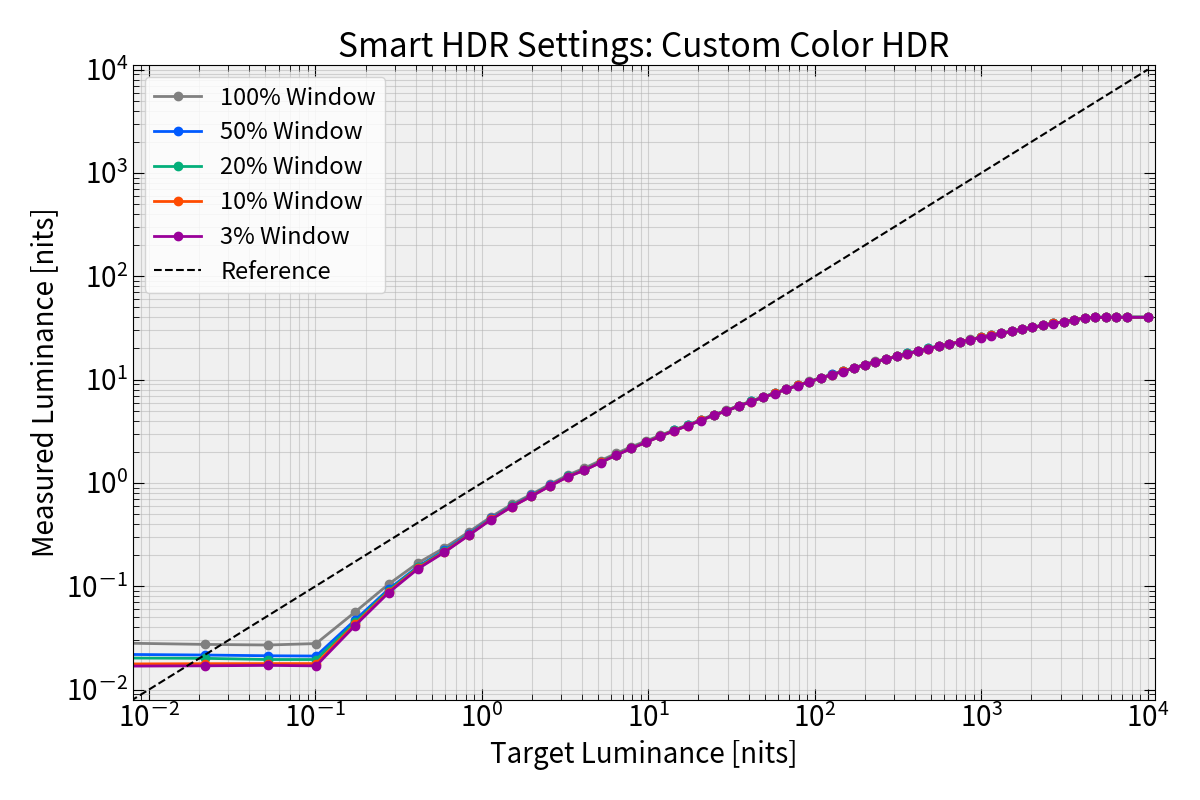
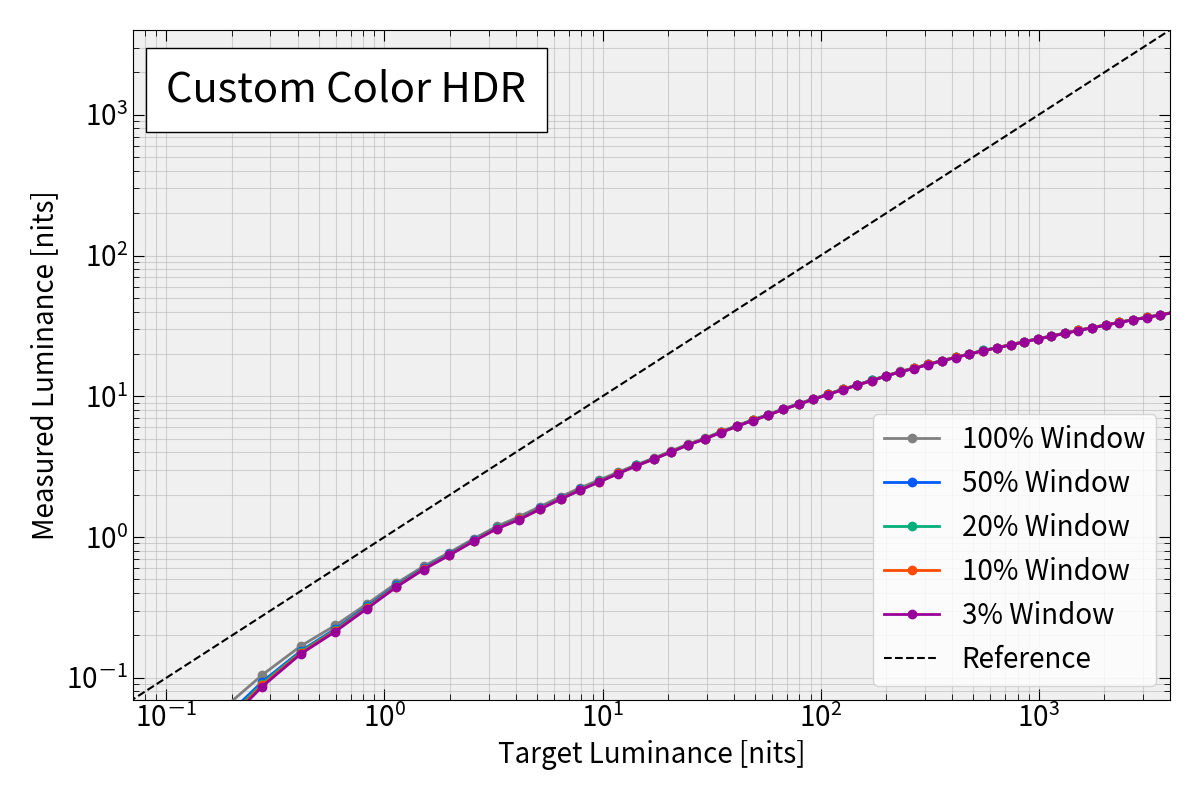
#232 update preset measurement result

Changed region(s): [[0.0308, 0.0312, 0.9867, 0.9688]]

diff --git a/2024/03_Measure_Moitor_Spec_with_Resolve/plot_measure_result.py b/2024/03_Measure_Moitor_Spec_with_Resolve/plot_measure_result.py
@@ -78,7 +78,8 @@ def plot_each_hdr_mode_result(condition: str):
         fontsize=20,
         figsize=(12, 8),
         bg_color=(0.96, 0.96, 0.96),
-        graph_title=f"Smart HDR Settings: {condition_str_space}",
+        # graph_title=f"Smart HDR Settings: {condition_str_space}",
+        graph_title=None,
         graph_title_size=None,
         xlabel="Target Luminance [nits]",
         ylabel="Measured Luminance [nits]",
@@ -102,12 +103,42 @@ def plot_each_hdr_mode_result(condition: str):
             ref_lumnance, luminance, '-o', color=color_list[idx], label=label)
     ax1.plot(ref_lumnance, ref_lumnance, '--k', lw=1.5, label="Reference")
     pu.log_scale_settings(ax1=ax1, grid_alpha=0.5, bg_color="#F0F0F0")
-    ax1.set_xlim(0.008, 11000)
-    ax1.set_ylim(0.008, 11000)
+    ax1.set_xlim(0.07, 4000)
+    ax1.set_ylim(0.07, 4000)
+
+    # add info text
+    text_pos_x = 0.1
+    text_pos_y = 1500
+    bbox_ops = dict(
+        facecolor='white', edgecolor='black', boxstyle='square,pad=0.5')
+    ax1.text(
+        text_pos_x, text_pos_y, condition.replace("_", " "),
+        fontsize=30, va='center', ha='left', bbox=bbox_ops)
 
     print(fname)
     pu.show_and_save(
-        fig=fig, legend_loc='upper left', save_fname=fname, show=True)
+        fig=fig, legend_loc='lower right', save_fname=fname, show=False,
+        fontsize=20)
+    
+
+def concat_each_hdr_mode_result():
+    condition_list = [
+        "Desktop", "Movie_HDR", "Game_HDR", "Custom_Color_HDR",
+        "DisplayHDR_True_Black", "HDR_Peak_1000"]
+    v_buf = []
+    for v_idx in range(2):
+        h_buf = []
+        for h_idx in range(3):
+            idx = v_idx * 3 + h_idx
+            condition = condition_list[idx]
+            fname = f"./img/increment_patch_{condition}.png"
+            img = tpg.img_read_as_float(fname)
+            h_buf.append(img)
+        v_buf.append(np.hstack(h_buf))
+    out_img = np.vstack(v_buf)
+
+    tpg.img_wirte_float_as_16bit_int(
+        "./img/increment_patch_all.png", out_img)
     
 
 def scatter_plot_for_single_patch(
@@ -530,13 +561,16 @@ def plot_abs_diff_colorchecker_core(cc_idx, data, ref_xy, patch_color):
 
 if __name__ == '__main__':
     os.chdir(os.path.dirname(os.path.abspath(__file__)))
-    plot_peak_60s_data()
+    # plot_peak_60s_data()
 
-    # condition_list = [
-    #     "Desktop", "Movie_HDR", "Game_HDR", "Custom_Color_HDR",
-    #     "DisplayHDR_True_Black", "HDR_Peak_1000"]
-    # for condition in condition_list:
-    #     plot_each_hdr_mode_result(condition=condition)
+    condition_list = [
+        "Desktop", "Movie_HDR", "Game_HDR", "Custom_Color_HDR",
+        "DisplayHDR_True_Black", "HDR_Peak_1000"]
+    for condition in condition_list:
+        plot_each_hdr_mode_result(condition=condition)
+        # break
+    concat_each_hdr_mode_result()
+
 
     # plot_color_checker_multi_size_and_cv()
     # concat_cc_plot_data()
